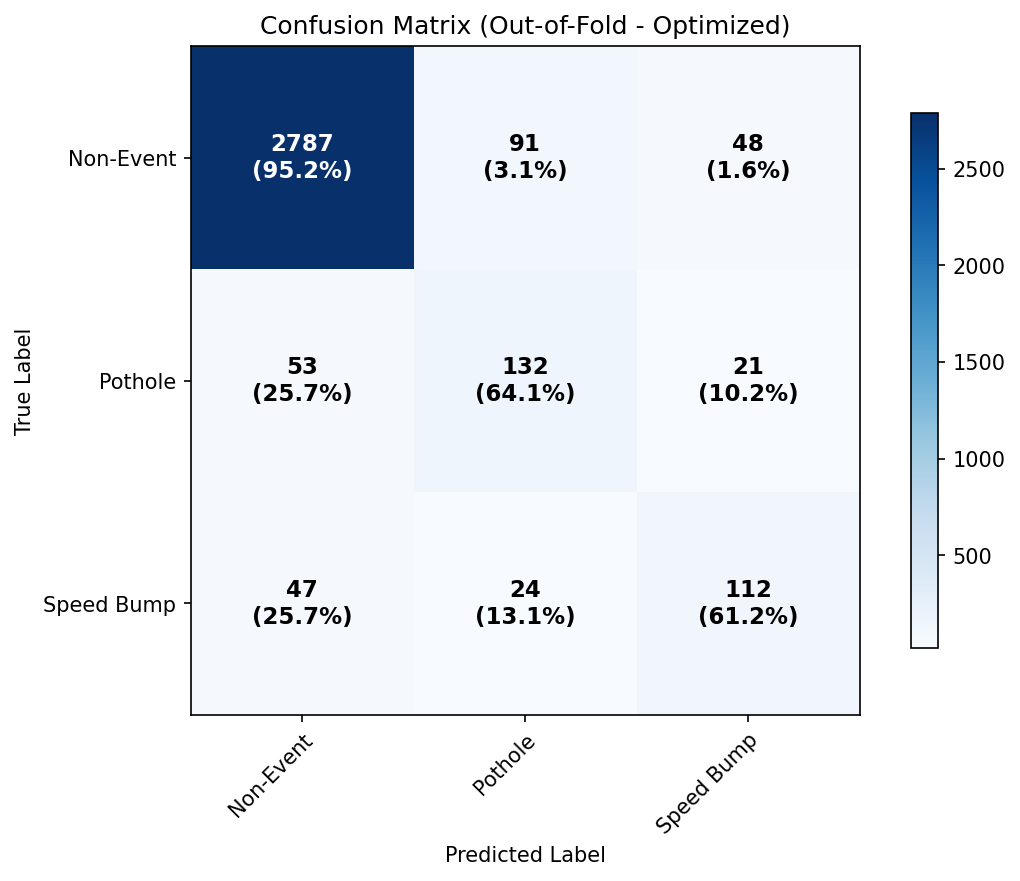
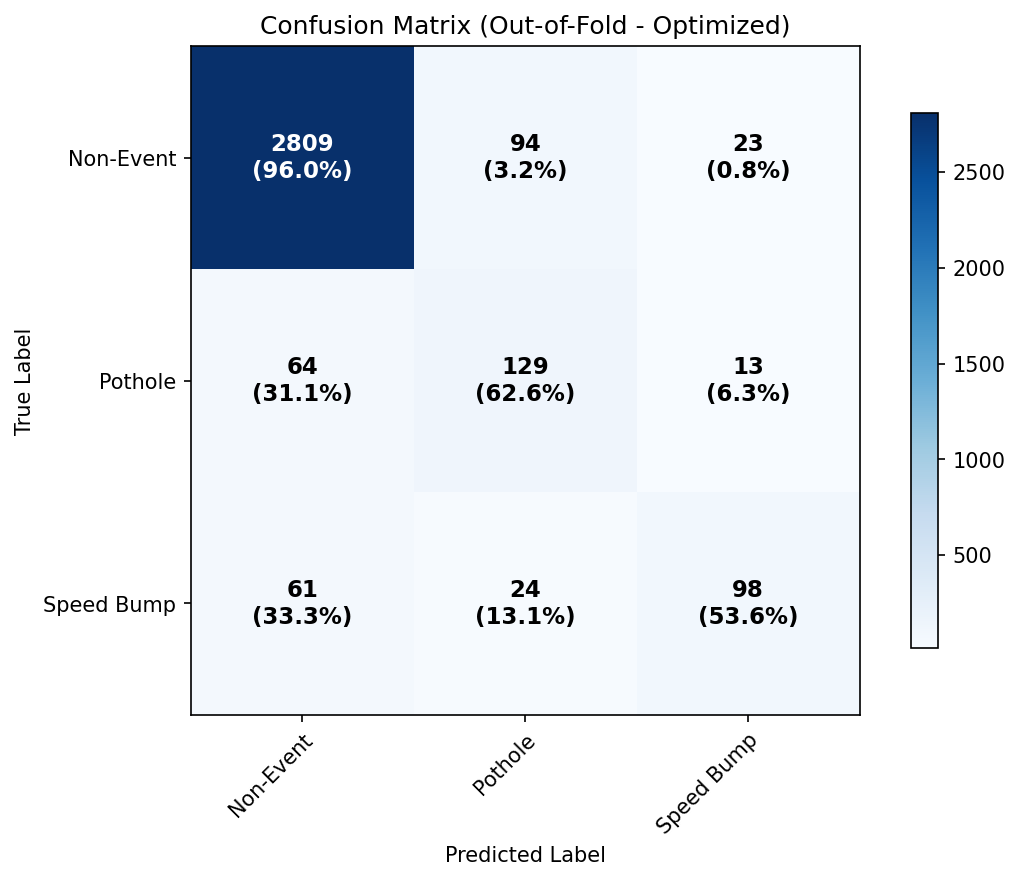
perf(cnn_model): adjust focal loss gamma to 2.0 in training
regenerate evaluation confusion matrix images for cnn_1d and xgboost models (both out-of-fold and holdout sets)

diff --git a/src/cnn_model/train.py b/src/cnn_model/train.py
@@ -335,7 +335,7 @@ def main():
         
         model = InceptionTime1D(in_channels=18, num_classes=len(classes),
                                num_blocks=2, channels=64, bottleneck_channels=16, dropout_rate=0.2).to(device)
-        criterion = FocalLoss(weight=class_weights, gamma=1.5)
+        criterion = FocalLoss(weight=class_weights, gamma=2.0)
         optimizer = torch.optim.Adam(model.parameters(), lr=LR, weight_decay=1e-4)
         scheduler = torch.optim.lr_scheduler.CosineAnnealingLR(optimizer, T_max=EPOCHS, eta_min=1e-6)
         
@@ -618,7 +618,7 @@ def main():
     
     final_model = InceptionTime1D(in_channels=18, num_classes=len(classes),
                                  num_blocks=2, channels=64, bottleneck_channels=16, dropout_rate=0.2).to(device)
-    criterion_full = FocalLoss(weight=class_weights_full, gamma=1.5)
+    criterion_full = FocalLoss(weight=class_weights_full, gamma=2.0)
     optimizer_full = torch.optim.Adam(final_model.parameters(), lr=LR, weight_decay=1e-4)
     scheduler_full = torch.optim.lr_scheduler.CosineAnnealingLR(optimizer_full, T_max=optimal_epochs, eta_min=1e-6)
     
